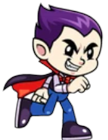
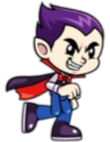
jump animation added
1. jump animation added. (further modification needed to work)
2. run animation modified. 5 different images added to make animation more smoother.

diff --git a/core/src/gameObjects/Character.java b/core/src/gameObjects/Character.java
@@ -12,7 +12,7 @@ public class Character implements ForObject {
     // character variables starts
     public float characterX = 50; // x-axis of character
     public float characterY = 0; // y-axis of character
-    public float characterWidth = 108; // character width
+    public float characterWidth = 100; // character width
     public float characterHeight = 140; // character height is always same
     public float characterSpeed = 200;
     // character variable ends
@@ -25,6 +25,21 @@ public class Character implements ForObject {
     public float runFrameDuration = 0.075f; // frame duration of every texture
     // run animation ends
 
+    // jump animation starts
+    public float jumpStateTime; // to calculate state time
+    public float jumpTime = 2f; // the total time duration for jumping
+    Animation jumpAnimation; // to create jump animation
+    TextureRegion jumpReg; // to animate every texture
+    public int jumpImgCnt = 10; // num of images for jump animation
+    public float jumpFrameDuration = jumpTime / jumpImgCnt; // frame duration for every texture
+    public float jumpMaxHeight = Gdx.graphics.getHeight() / 2f - characterHeight - 5f; // the maximum height
+    // the character will go while jumping.
+    public float characterJumpSpeed = jumpMaxHeight / (jumpTime / 2); // character jump speed (fps)
+    public int jumpDirection = 0; // is he going upward or downward? 0 means upward. 1 means downward.
+    public boolean jumpDelay = false; // is jumping executing or not? (other actions will be frozen while its true).
+    // jump animation ends
+
+
 
     public Character () {
         createRunAnimation();
@@ -32,13 +47,6 @@ public class Character implements ForObject {
 
     @Override
     public void update() {
-        // character movement
-//        if (Gdx.input.isKeyPressed(Input.Keys.W)) {
-//            characterY += characterSpeed * Gdx.graphics.getDeltaTime();
-//        }
-//        else if (Gdx.input.isKeyPressed(Input.Keys.S)) {
-//            characterY -= characterSpeed * Gdx.graphics.getDeltaTime();
-//        }
     }
 
     @Override
@@ -68,5 +76,55 @@ public class Character implements ForObject {
 
         batch.draw(runReg, characterX, characterY, characterWidth / 2, characterHeight / 2,
                 characterWidth,characterHeight,1,1,0); // drawing run animation
+    }
+
+    /*
+to create jump animation
+ */
+    public void createJumpAnimation() {
+        Array<TextureRegion> textureRegion = new Array<>(); // to store all the textures
+        for (int i = 1; i <= jumpImgCnt; i++) {
+            Texture texture = new Texture("Jump\\jump" + i + ".png"); // creating new texture
+            texture.setFilter(Texture.TextureFilter.Linear, Texture.TextureFilter.Linear); // filtering texture
+            textureRegion.add(new TextureRegion(texture)); // adding texture to texture region
+        }
+        jumpAnimation = new Animation<>(jumpFrameDuration, textureRegion); // creating animation
+        jumpStateTime = 0f; // setting state time 0
+    }
+
+    /*
+    to draw run animation
+     */
+    public void renderJumpAnimation(SpriteBatch batch) {
+        jumpStateTime += Gdx.graphics.getDeltaTime(); // to calculate how long the character is jumping
+
+        if (jumpDirection == 0) {
+            // if jumpDirection is 0, the character will go upward.
+
+            characterY += characterJumpSpeed * Gdx.graphics.getDeltaTime();
+        }
+        else {
+            // the character will go downward. (jumpDirection is 1)
+
+            characterY -= characterJumpSpeed * Gdx.graphics.getDeltaTime();
+        }
+
+        if (characterY >= jumpMaxHeight) {
+            // if the character reached higher position the direction will be changed.
+
+            jumpDirection = 1; // direction is set to 1.
+        }
+
+        if (jumpStateTime >= jumpTime) {
+            // if jumpTime is crossed for one jump, the character will be moved to initial position, and
+            // it will be ready for new action
+
+            jumpDelay = false; // jump is finished so it is false now
+            characterY = 0; // setting to initial position
+        }
+
+        jumpReg = (TextureRegion) jumpAnimation.getKeyFrame(jumpStateTime); // setting a texture for specific time period
+        batch.draw(jumpReg, characterX, characterY, characterWidth / 2, characterHeight / 2,
+                characterWidth,characterHeight,1,1,0); // drawing animation.
     }
 }
